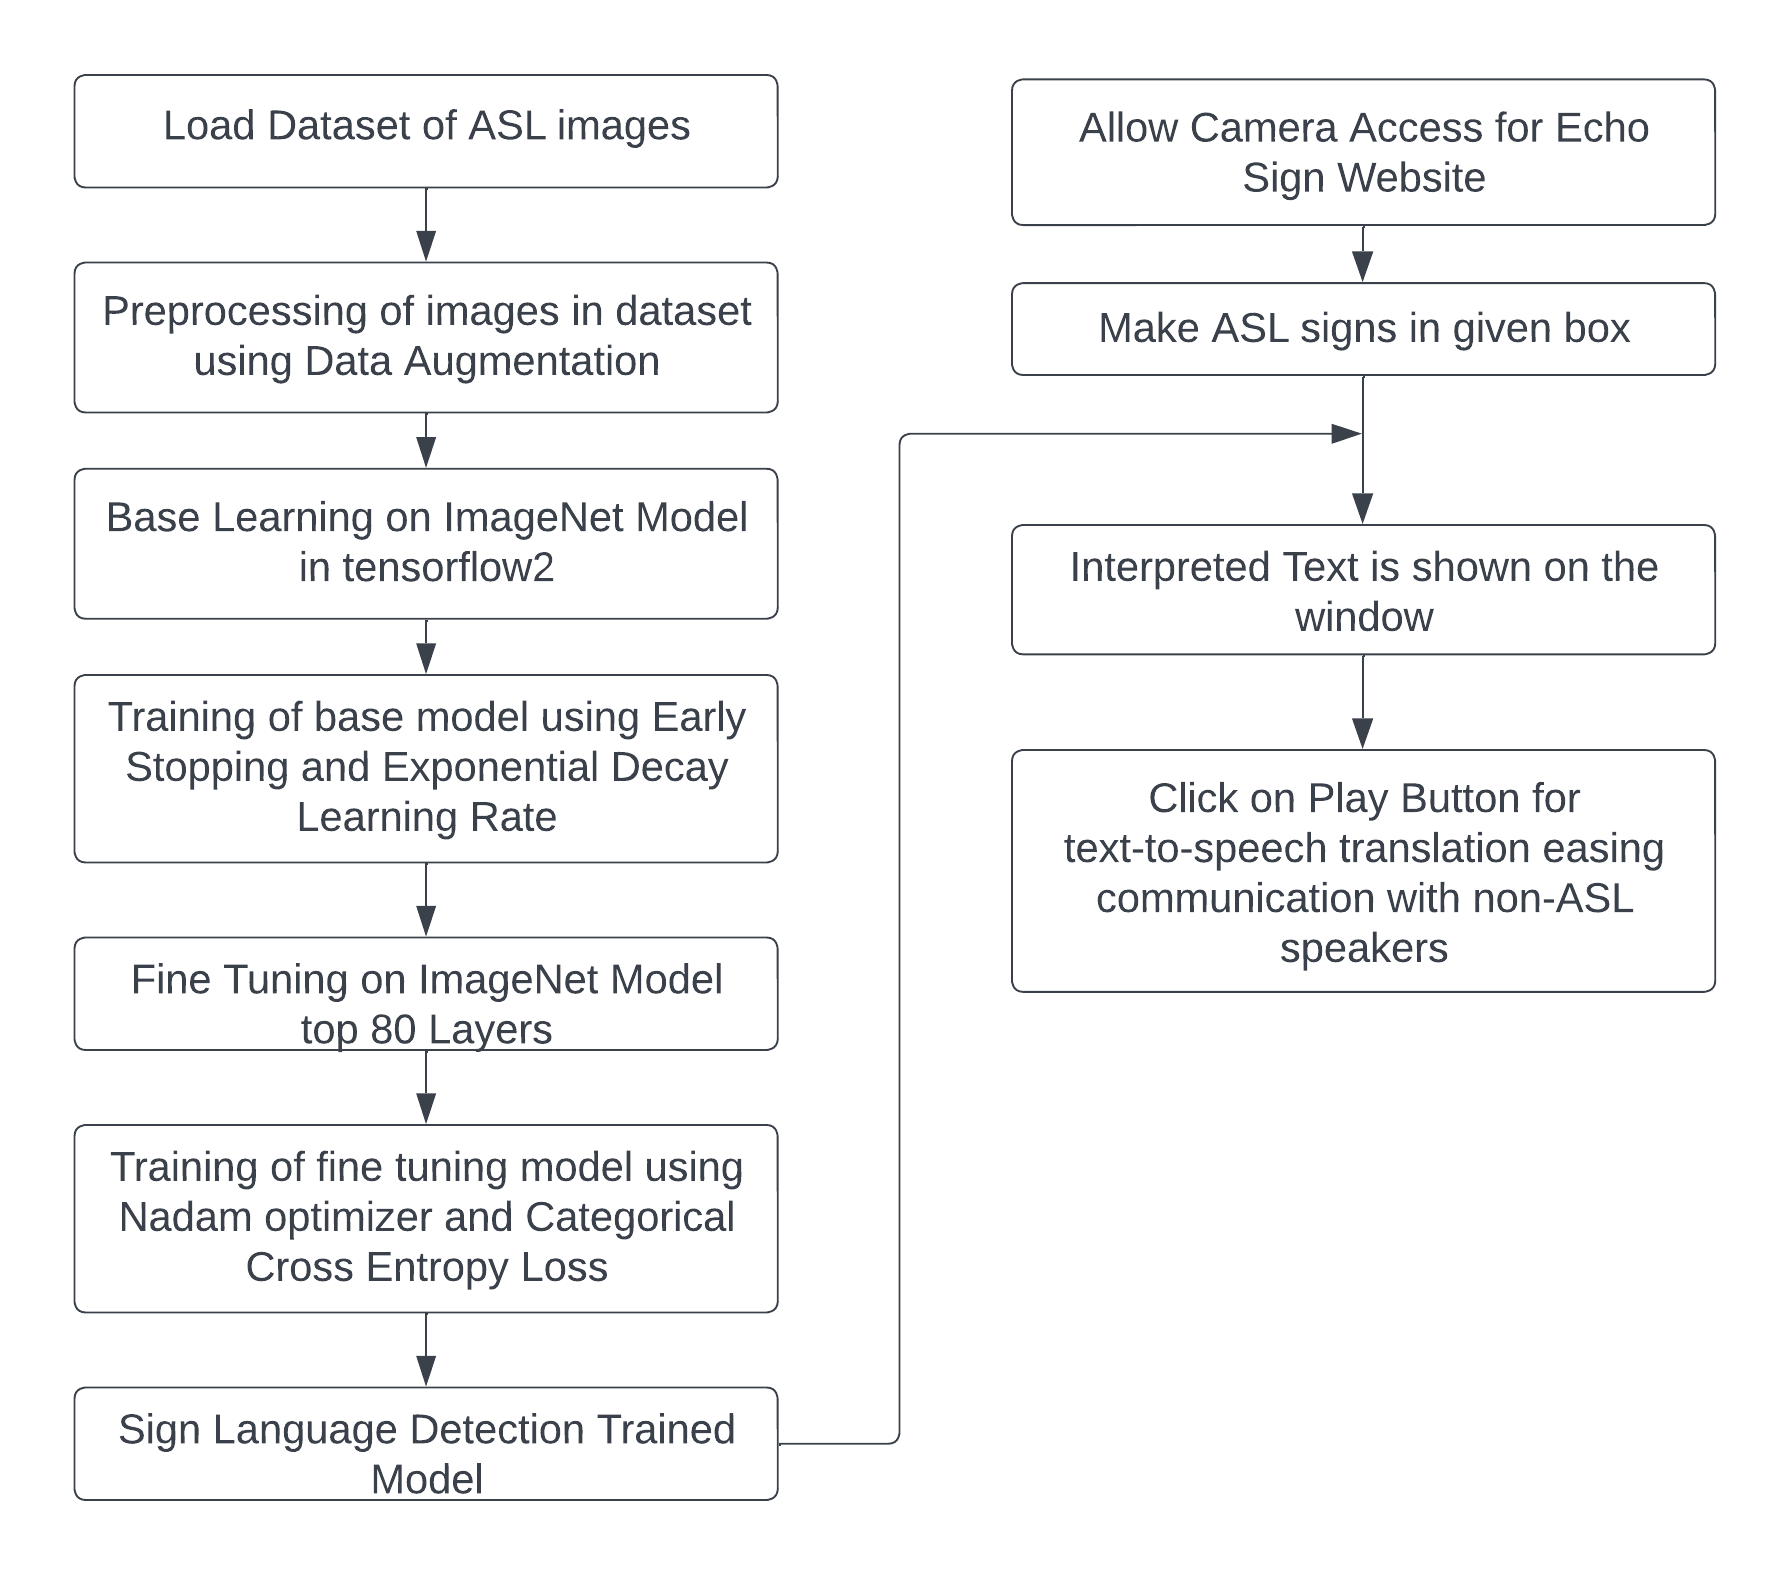
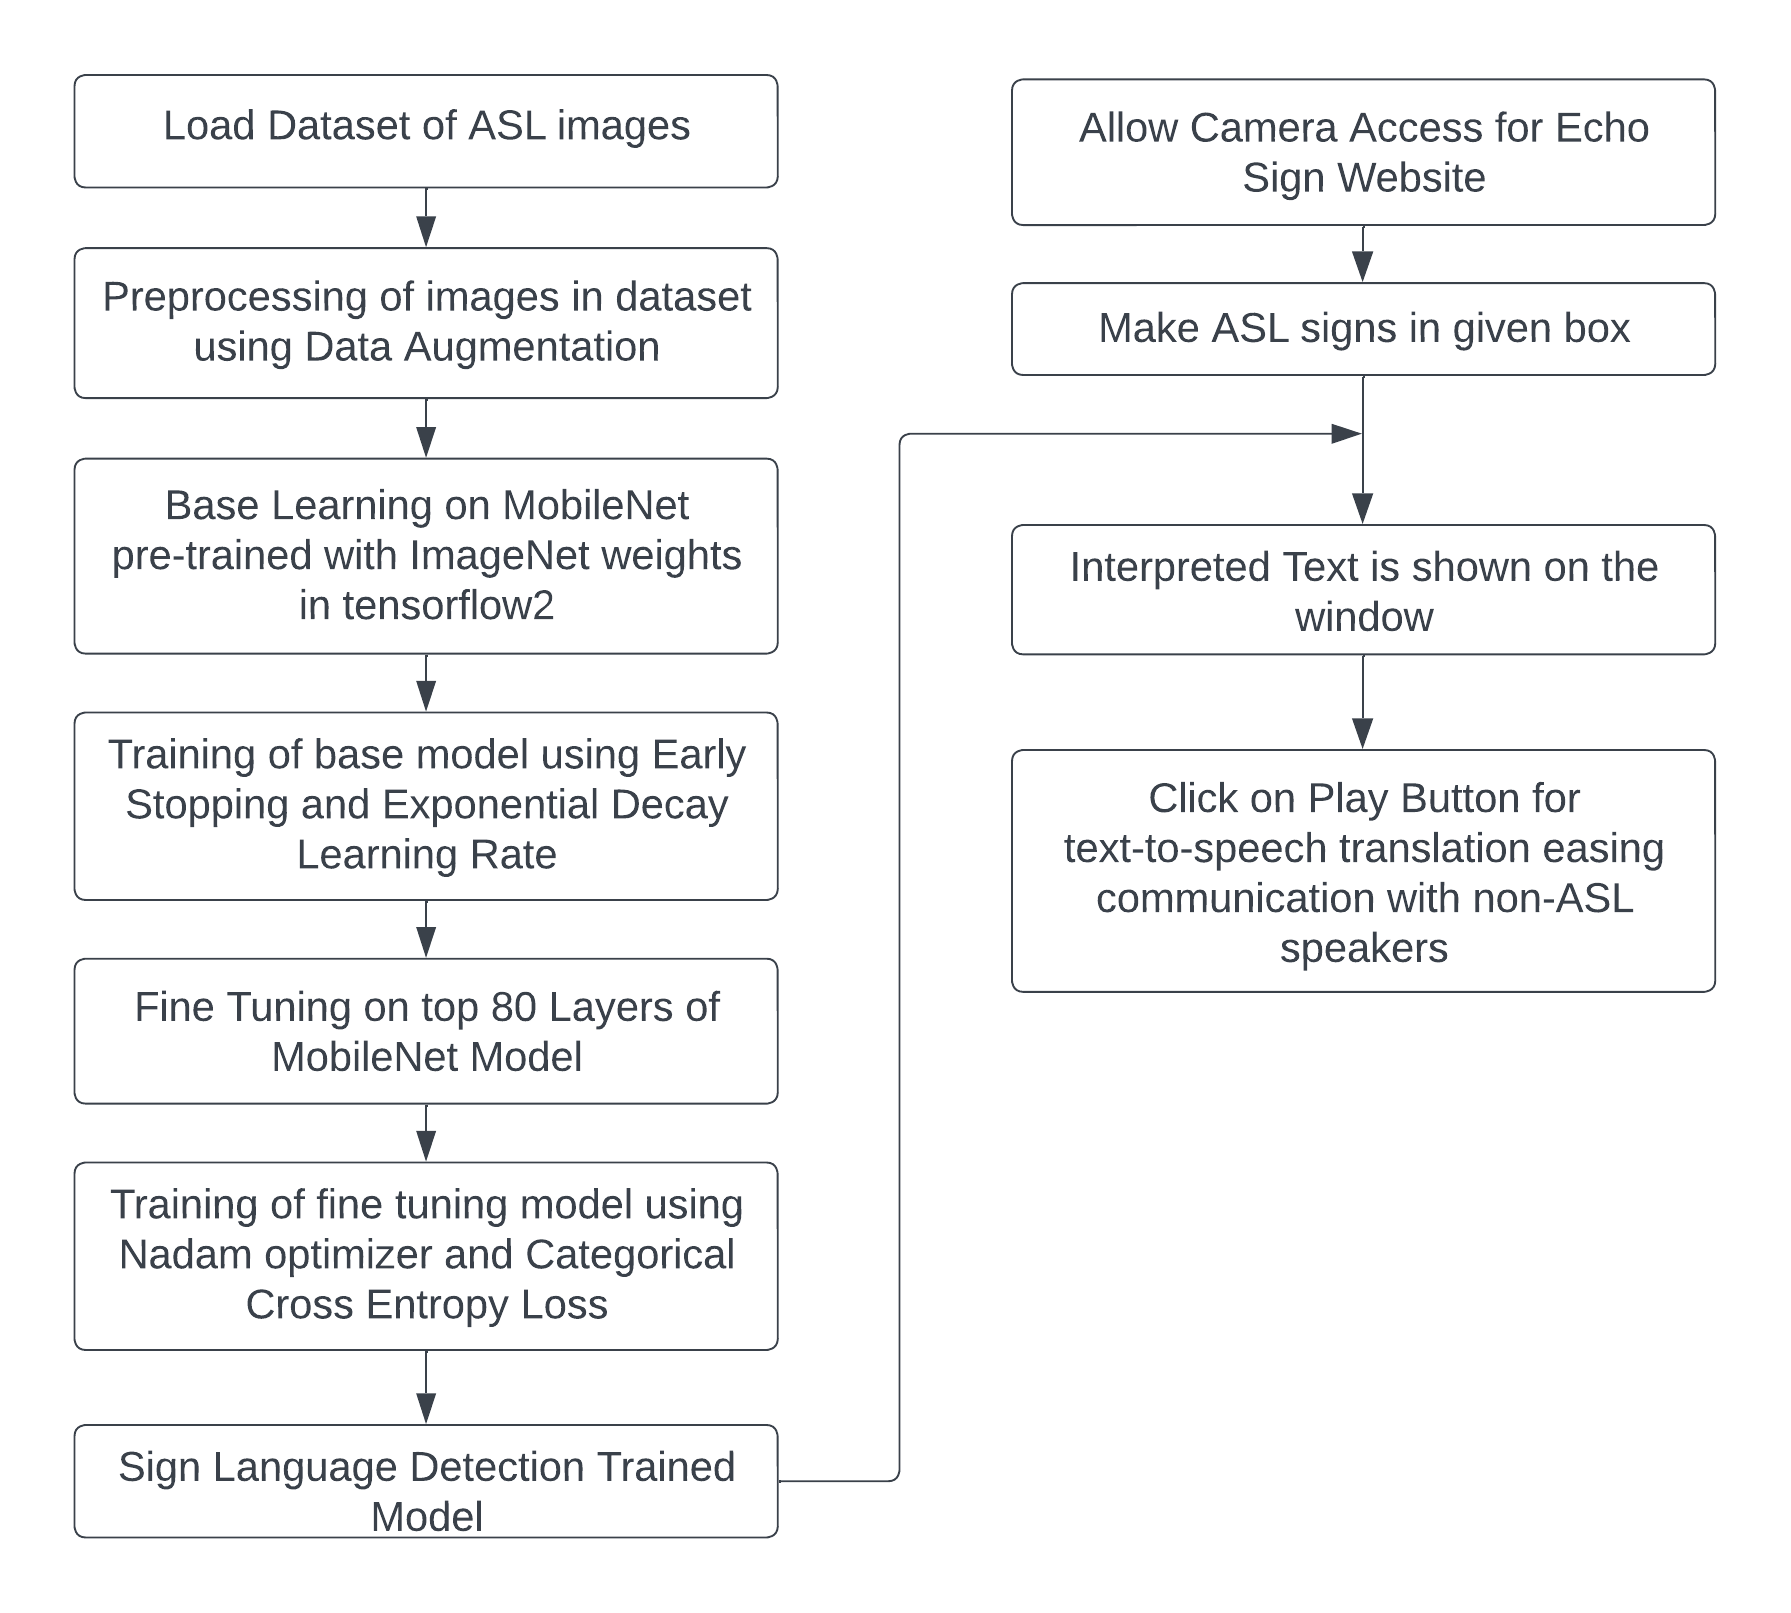
Update README.md

diff --git a/README.md b/README.md
@@ -1,28 +1,25 @@
-# Sign Language (ASL) Detection System using MobileNet, TensorFlow v2, Python, Flask, OpenCv2
+# Sign Language (ASL) Detection System using MobileNet, TensorFlow v2, Python, Flask, OpenCv2, Web Speech API
 
 <!-- PROJECT LOGO -->
 <br />
 <div align="center">
     <img src="static\love-hand-l-fav.png" alt="Logo" width="80" height="80">
-    <h3 align="center">Helen</h3>
+    <h3 align="center">EchoSign</h3>
 </div>
 
 ## Setup using Python virtual environment
 
-1. Clone the repo
-   ```sh
-   git clone https://github.com/priyanka-maz/sign-language-detection
-   ```
-
-2. After cloning or downloading the codebase src/ dir to /path/to/src
-    ```sh
-    python3 -m venv /path/to/src
-    cd /path/to/src
-    python3 -m pip install -r requirements.txt
-    # Skip below command if using in a development env
-    export ENV=production
-    python3 app.py
-    ```
+First we create the virtual environment and clone the repository into it. 
+Then, we install all dependencies before running the application.
+```sh
+python3 -m venv /path/to/venv
+cd /path/to/venv
+git clone https://github.com/priyanka-maz sign-language-detection
+source bin/activate
+cd sign-language-detection
+python3 -m pip install -r requirements.txt
+python3 app.py
+```
 
 ## Usage
 
@@ -30,14 +27,74 @@
 
 - Permissions for video feed usage must be set to 'Allow'
 
-- Write letters in American Sign Language to form words or phrases which show up on the board on the right
+- Write letters in American Sign Language to form words or phrases which show up on the console on the right
 
 - Click on 'Play' button below the console to convert your sentences from text-to-speech for seamless communication
 
-## Screenshots
+- For non-ASL users, you can refer to the English to ASL converter on the homepage 
 
-## Features
+- Follow instructions under console for further instructions
+
+## Screenshots / Videos
+
+![Live ASL Detection](screenshots/7.Live_ASL_detection_TTS.mp4)
+![HomePage](screenshots/1.Homepage.png)
+![Info about ASL](screenshots/2.Homepage_ASL.png)
+![ASL alphabets clipart](screenshots/3.Home_asl_alphabets.png)
+![English to ASL convertor](screenshots/4.Home_asl_to_english.png)
+![ASL Detection with confidence percentage](screenshots/5.Live_ASL_Detection.png)
+![Text to speech settings](screenshots/6.Text_to_speech_settings.png)
+![About US](screenshots/9.About_us.png)
+![Our Vision](screenshots/10.Vision.png)
+![Our Team](screenshots/11.Team.png)
+
+## Features <img src="static\asl-interpreter-services.png" alt="Logo" width="30" height="30">
+
+- This website was developed using Python, Flask, HTML, CSS & Javascript.
+- Users who wish to converse in ASL, may use this detection system to convert the interpreted text to speech for communicating without bounds.
+- Users who aren't equipped with ASL may use the English to ASL converter to learn relevant symbols.
+- The voice for TTS technology may be changed in settings.
+- Developers may check the raw footage opened using SocketIO and the prediction on top of that OpenCV feed.
+- Text-to-speech translation uses ```SpeechSynthesisUtterance()``` of the Web Speech API.
+- ```TensorFlow 2.0``` and ```Keras``` library is used in the development of our model. The final model used for testing and deployment is ```MobileNet```.
+- Other machine learning techniques employed are:
+    - Data Augmentation
+    - Transfer Learning
+    - Validation Set for Accuracy metric 
+    - Early Stopping
+    - Nadam Optimizer
+    - Exponential Decay Learning Rate 
+    - Categorical Cross Entropy Loss 
 
 ## File Structure
 
-
+```
+.
+├── app.py.............................Runs the Flask application and deploys all webpages
+│                                      as well as calls necessary computational functions
+├── datasets...........................Contains tar.gz file of the dataset and 
+│                                      some necessary statistics for the dataset
+├── LICENSE............................MIT LICENSE
+├── models.............................TFLITE version models of MobileNet and EfficientNet
+│   ├── model_efficientnet_v2s.tflite
+│   └── model_mobilenet_v2.tflite
+├── README.md
+├── requirements.txt
+├── screenshots........................Contains necessary visualizations about the 
+│                                      model performance, data and website
+├── static.............................Contains all js, css files and images used in the website
+│   ├── connection.js
+│   ├── opencv.js
+│   └── style.css
+├── templates..........................Contains all HTML templates deployed in the website
+│   ├── about.html
+│   ├── index.html.....................HTML template of the page where sign detection occurs
+│   ├── landing.html
+│   └── layout.html
+├── train.py...........................Used to train the entire model, contains all 
+│                                      ML techniques mentioned above
+├── webcam_detect.py...................Loads the model and predicts the class from the 
+│                                      frame input given as softmax probability which is sent 
+│                                      back to the client's end
+└── webcam.py..........................Used for testing ASL Sign Detection and preiction locally
+```
